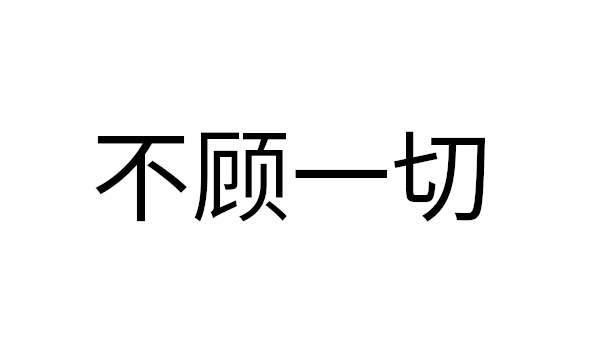
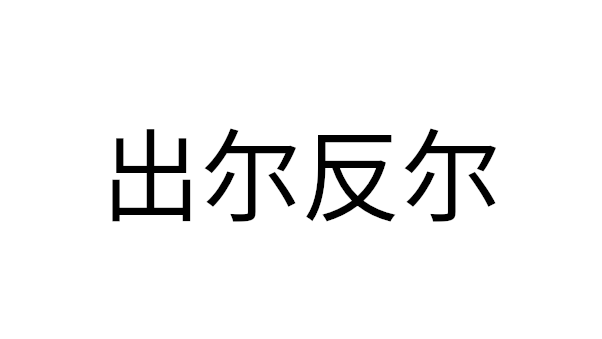
complete original 7

Changed region(s): [[0.1495, 0.3835, 0.8372, 0.6785]]

diff --git a/assets/scripts.js b/assets/scripts.js
@@ -20,21 +20,21 @@ $(document).ready(function () {
     },
     {
       src: "./assets/images/cy4.png",
-      pinyin: "bù gù yī qiè",
-      wtm: "Indifferent to everything.",
-      more: ""
+      pinyin: "chū ěr fǎn ěr",
+      wtm: "What comes from you returns to you.",
+      more: "https://laowaichengyuguide.com/entry/出尔反尔"
     },
     {
       src: "./assets/images/cy5.png",
-      pinyin: "hòu dé zài wù",
-      wtm: "To be of strong moral character.",
-      more: ""
+      pinyin: "cǎo mù jiē bīng",
+      wtm: "The plants and trees are all [enemy] soldiers.",
+      more: "https://laowaichengyuguide.com/entry/草木皆兵"
     },
     {
       src: "./assets/images/cy6.png",
-      pinyin: "suí yù ér'ān",
-      wtm: "To feel adequate wherever you are.",
-      more: ""
+      pinyin: "dà qì wǎn chéng",
+      wtm: "Precious objects take a long time to make.",
+      more: "https://laowaichengyuguide.com/entry/大器晚成"
     },
     {
       src: "./assets/images/main-qimg-4833d2d626ec99f5da661dd633c0a002.png",
